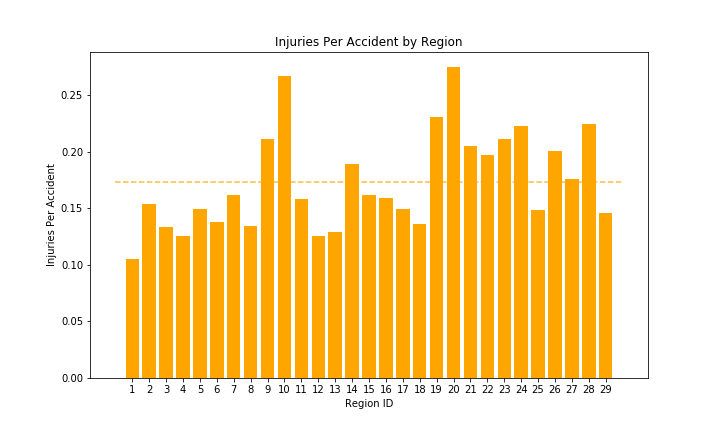
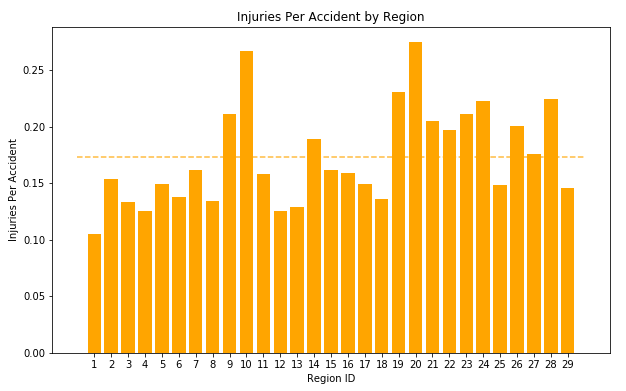
Update .md

Changed region(s): [[0.0, 0.0307, 0.9409, 0.9821]]

diff --git a/README.md b/README.md
@@ -88,7 +88,7 @@ Study of traffic in the City of Chicago, including congestion, crash, and traffi
 
   There is poor correlation in both cases. (r for injuries is -.13, r for fatalities is -.25). Overall the rate of injuries is not dependent on the amount of traffic cameras present in a region.  
 
-  <img src="output/Injuries_Per_Accident_by_Region.png" alt="Injuries Per Accident by Region" height="70%" width="70%">
+  <img src="output/Injuries_Per_Accident_by_Region.png" alt="Injuries Per Accident by Region" height="60%" width="60%">
 
   ![alt text](output/Cameras_by_Region.png "Cameras by Region")
 
